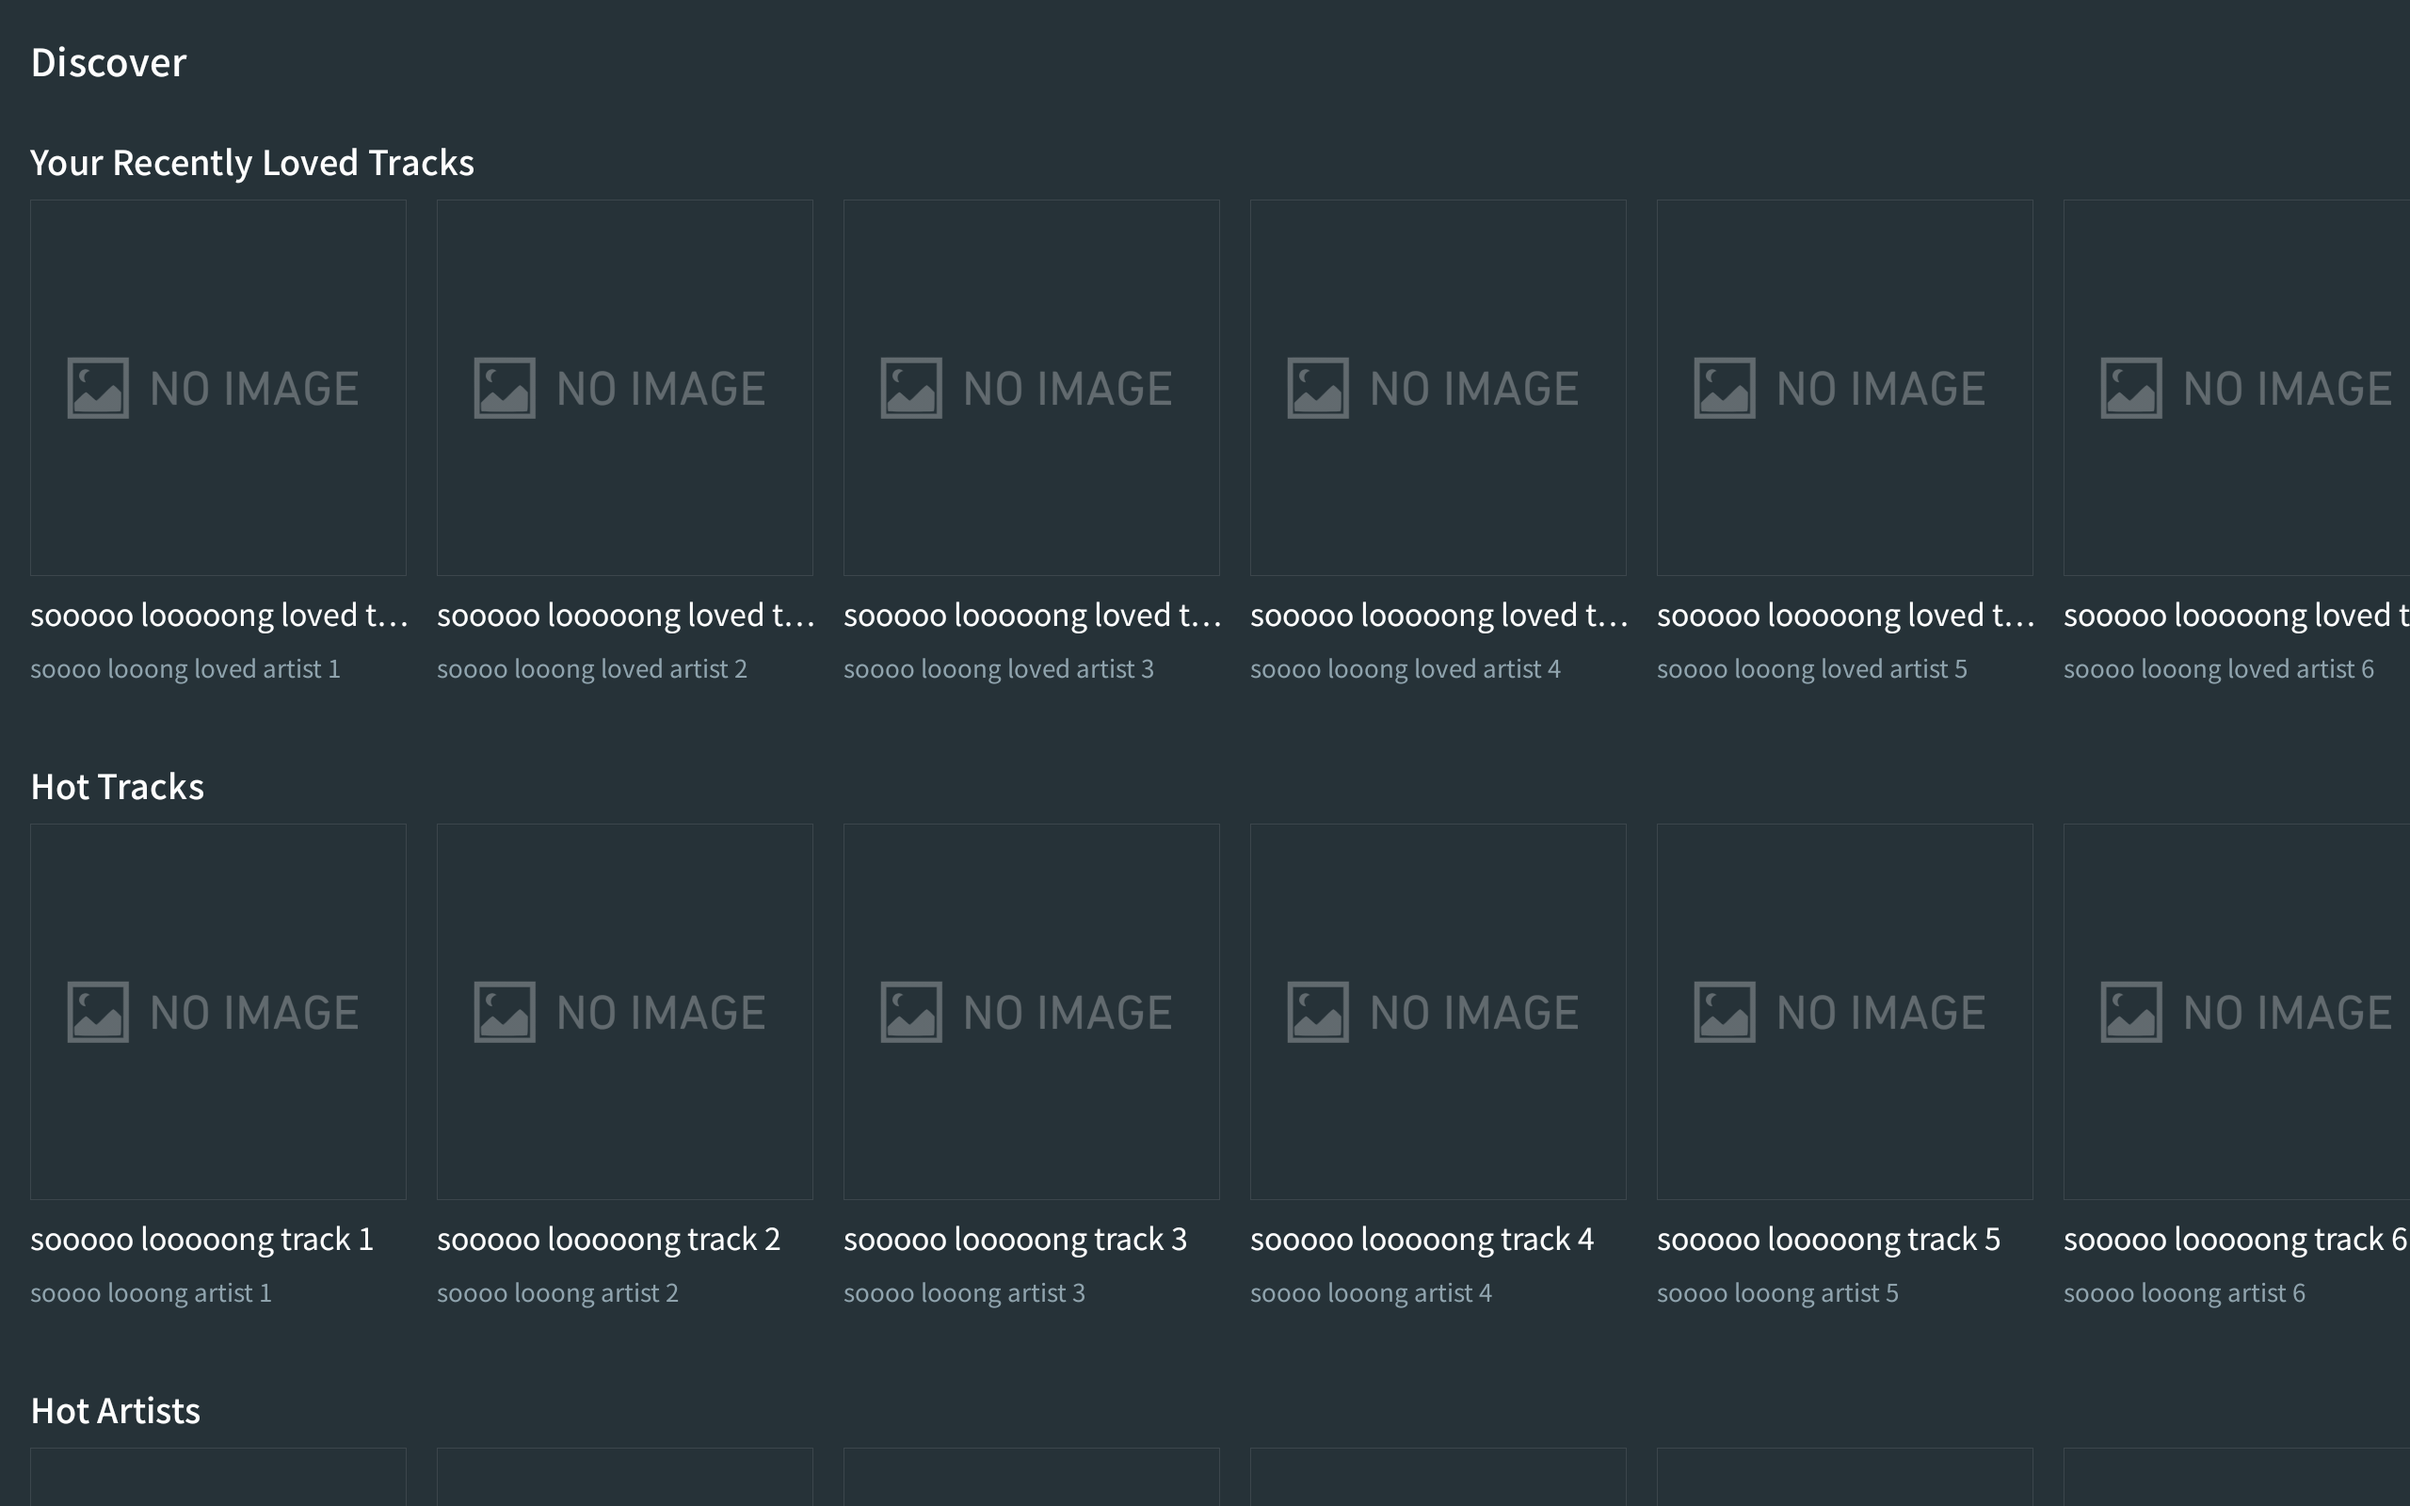
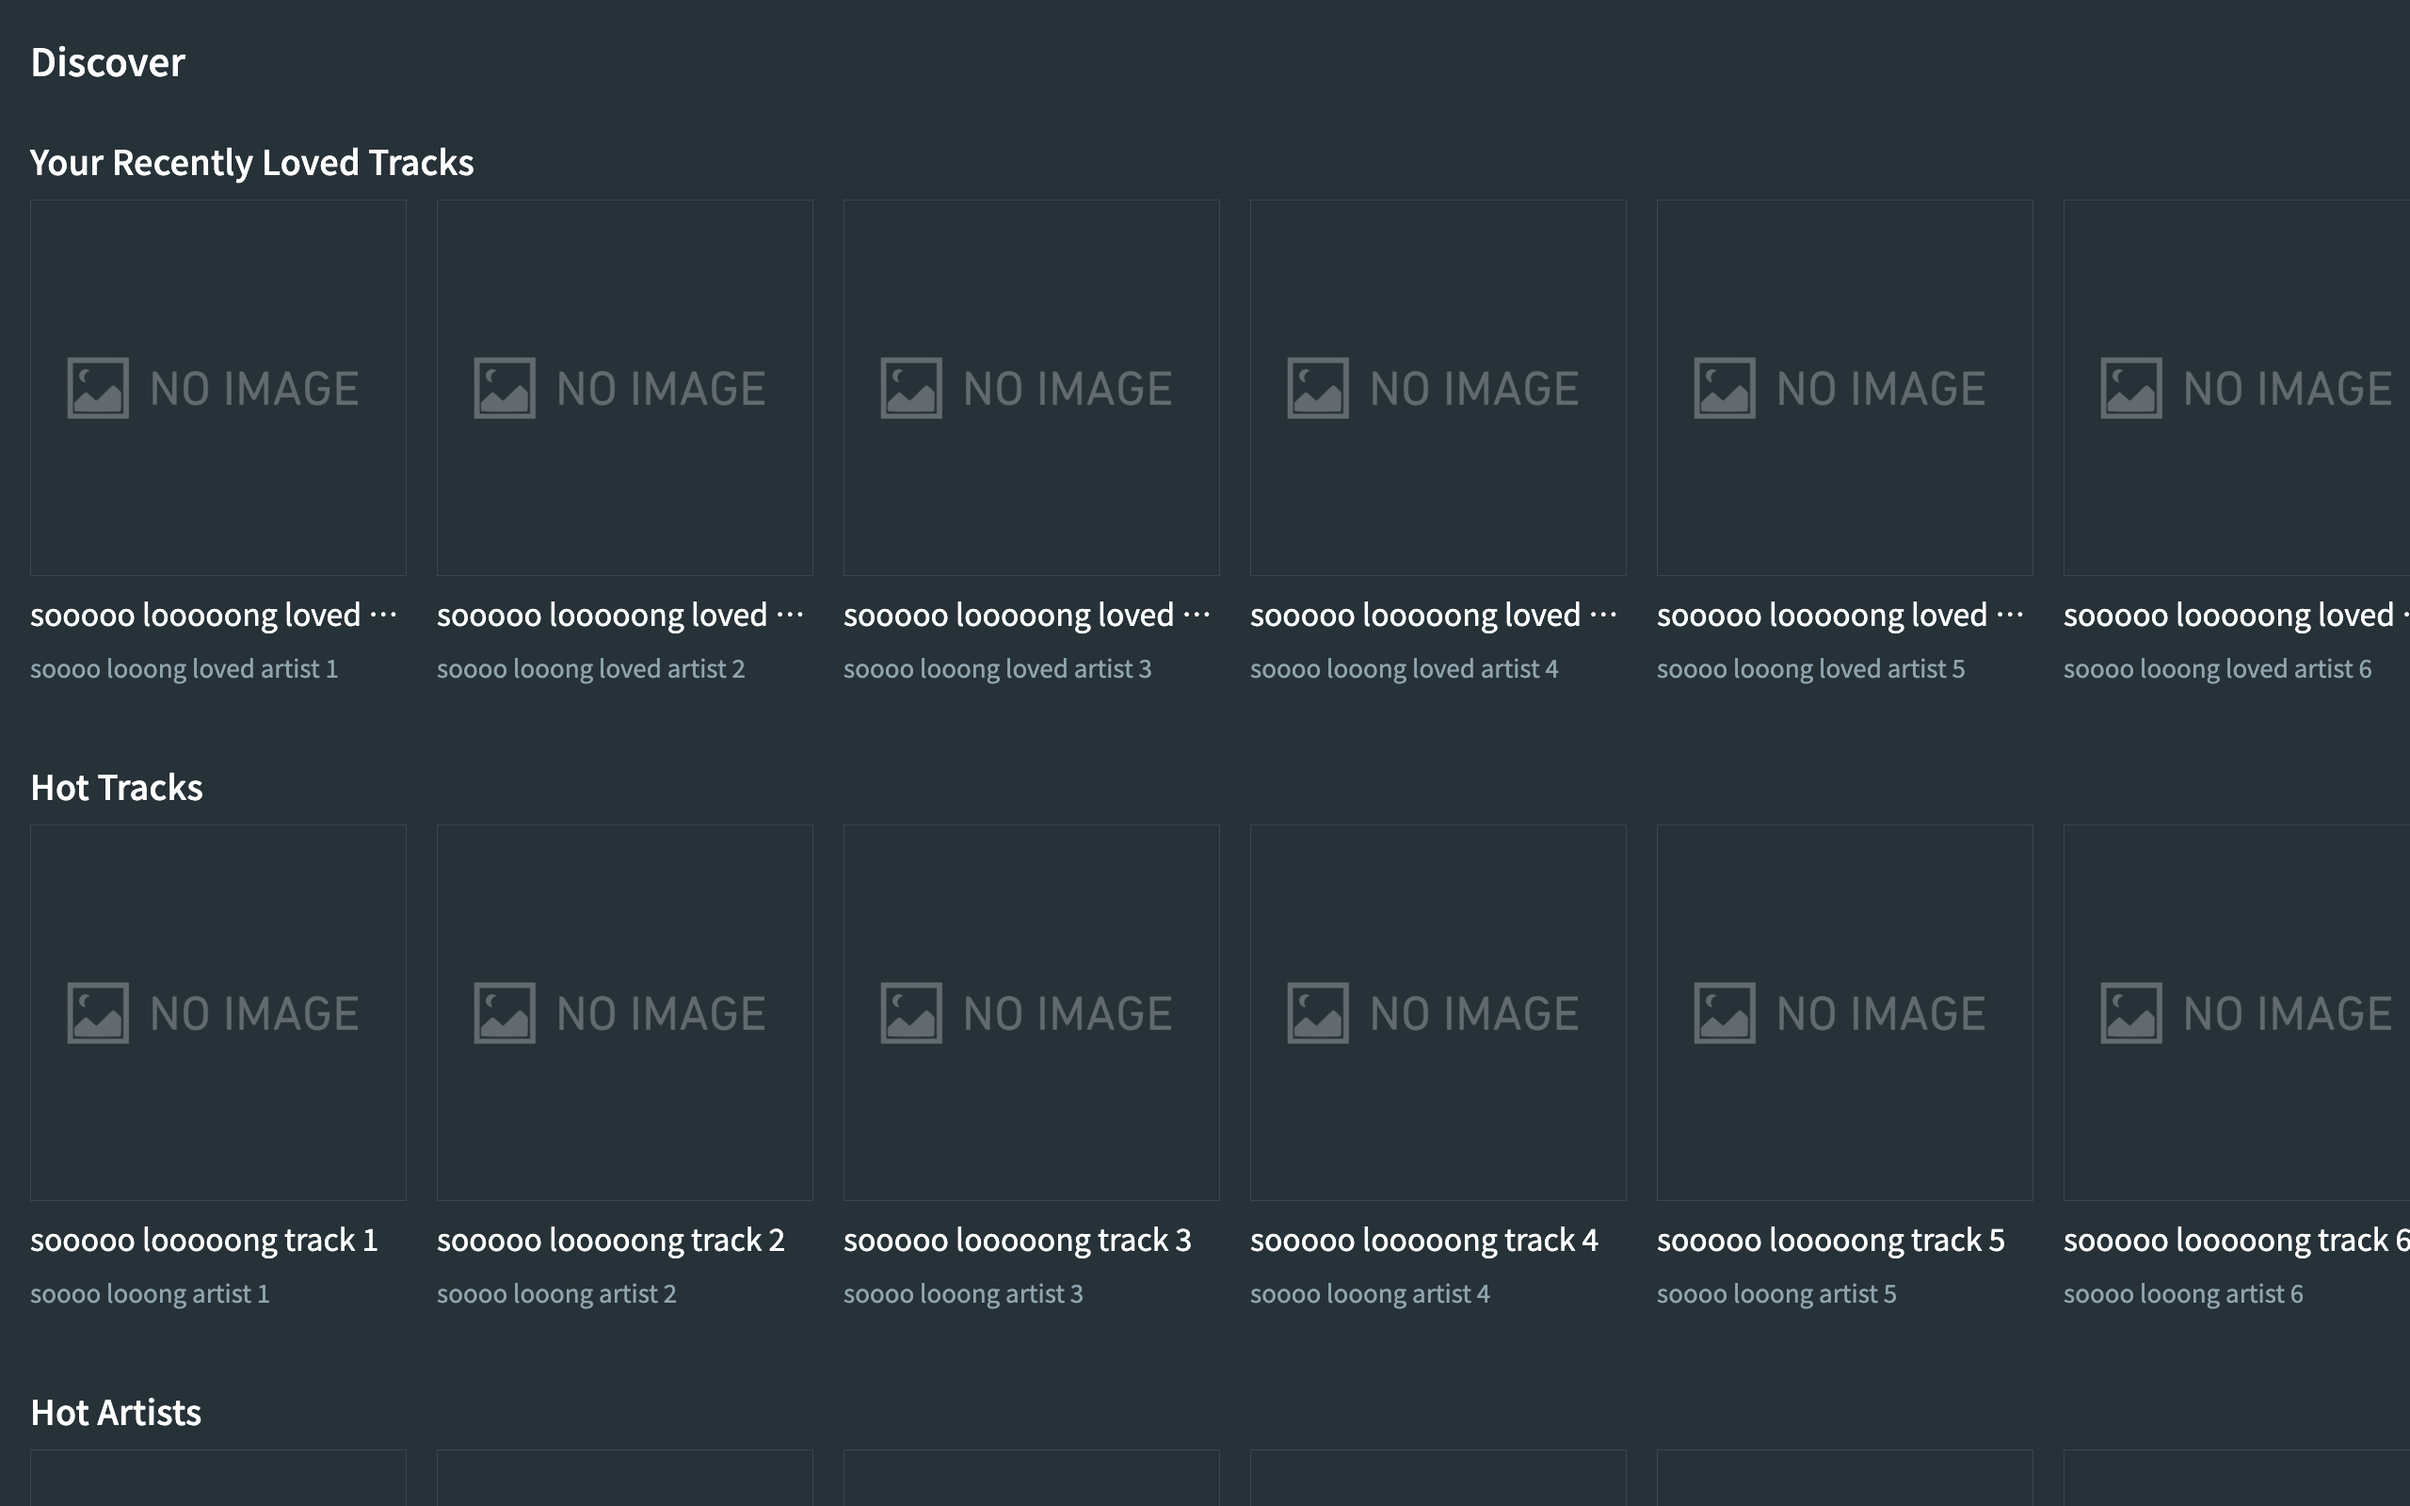
build(discover): convert :feature:discover to KMP and render its VRT on the JVM
- Replace the sunsetscrob.android.* plugins with sunsetscrob.library,
  compose, metro and test.screenshot; keep only module dependencies in
  build.gradle.kts and the com.mataku.scrobscrob.chart namespace
- Move sources to src/commonMain/kotlin, the manifest to
  src/androidMain and tests to src/jvmTest/kotlin unchanged; no source
  used Android APIs
- Rewrite DiscoverScreenTest as a JUnit 5 @Tag("VRT") test on the
  top-level captureScreenshot; re-record goldens on the JVM

diff --git a/feature/discover/src/jvmTest/kotlin/com/mataku/scrobscrob/discover/screen/DiscoverScreenTest.kt b/feature/discover/src/jvmTest/kotlin/com/mataku/scrobscrob/discover/screen/DiscoverScreenTest.kt
@@ -1,8 +1,5 @@
 package com.mataku.scrobscrob.discover.screen
 
-import androidx.compose.ui.test.junit4.v2.createComposeRule
-import androidx.test.ext.junit.runners.AndroidJUnit4
-import com.github.takahirom.roborazzi.RobolectricDeviceQualifiers
 import com.mataku.scrobscrob.core.entity.AppTheme
 import com.mataku.scrobscrob.core.entity.ChartArtist
 import com.mataku.scrobscrob.core.entity.ChartTopArtists
@@ -15,27 +12,19 @@ import com.mataku.scrobscrob.data.repository.ChartRepository
 import com.mataku.scrobscrob.data.repository.UserRepository
 import com.mataku.scrobscrob.discover.ui.screen.DiscoverScreen
 import com.mataku.scrobscrob.discover.ui.viewmodel.DiscoverViewModel
-import com.mataku.scrobscrob.test_helper.integration.VRT
+import com.mataku.scrobscrob.test_helper.integration.ScreenshotDevice
 import com.mataku.scrobscrob.test_helper.integration.captureScreenshot
 import io.mockk.coEvery
 import io.mockk.mockk
 import kotlinx.collections.immutable.persistentListOf
 import kotlinx.collections.immutable.toImmutableList
 import kotlinx.coroutines.flow.flowOf
-import org.junit.Before
-import org.junit.Rule
-import org.junit.Test
-import org.junit.experimental.categories.Category
-import org.junit.runner.RunWith
-import org.robolectric.annotation.GraphicsMode
+import org.junit.jupiter.api.BeforeEach
+import org.junit.jupiter.api.Tag
+import org.junit.jupiter.api.Test
 
-@RunWith(AndroidJUnit4::class)
-@GraphicsMode(GraphicsMode.Mode.NATIVE)
-@Category(VRT::class)
+@Tag("VRT")
 class DiscoverScreenTest {
-  @get:Rule
-  val composeTestRule = createComposeRule()
-
   private val chartRepository = mockk<ChartRepository>()
   private val userRepository = mockk<UserRepository>()
 
@@ -73,7 +62,7 @@ class DiscoverScreenTest {
     )
   }
 
-  @Before
+  @BeforeEach
   fun setup() {
     coEvery {
       chartRepository.topTracks(1)
@@ -115,7 +104,7 @@ class DiscoverScreenTest {
   @Test
   fun layout() {
     val viewModel = DiscoverViewModel(chartRepository, userRepository)
-    composeTestRule.captureScreenshot(
+    captureScreenshot(
       appTheme = AppTheme.DARK,
       content = {
         DiscoverScreen(
@@ -130,7 +119,7 @@ class DiscoverScreenTest {
   @Test
   fun layout_light() {
     val viewModel = DiscoverViewModel(chartRepository, userRepository)
-    composeTestRule.captureScreenshot(
+    captureScreenshot(
       appTheme = AppTheme.LIGHT,
       content = {
         DiscoverScreen(
@@ -145,8 +134,8 @@ class DiscoverScreenTest {
   @Test
   fun layout_tablet() {
     val viewModel = DiscoverViewModel(chartRepository, userRepository)
-    composeTestRule.captureScreenshot(
-      device = RobolectricDeviceQualifiers.PixelTablet,
+    captureScreenshot(
+      device = ScreenshotDevice.PixelTablet,
       appTheme = AppTheme.DARK,
       content = {
         DiscoverScreen(
